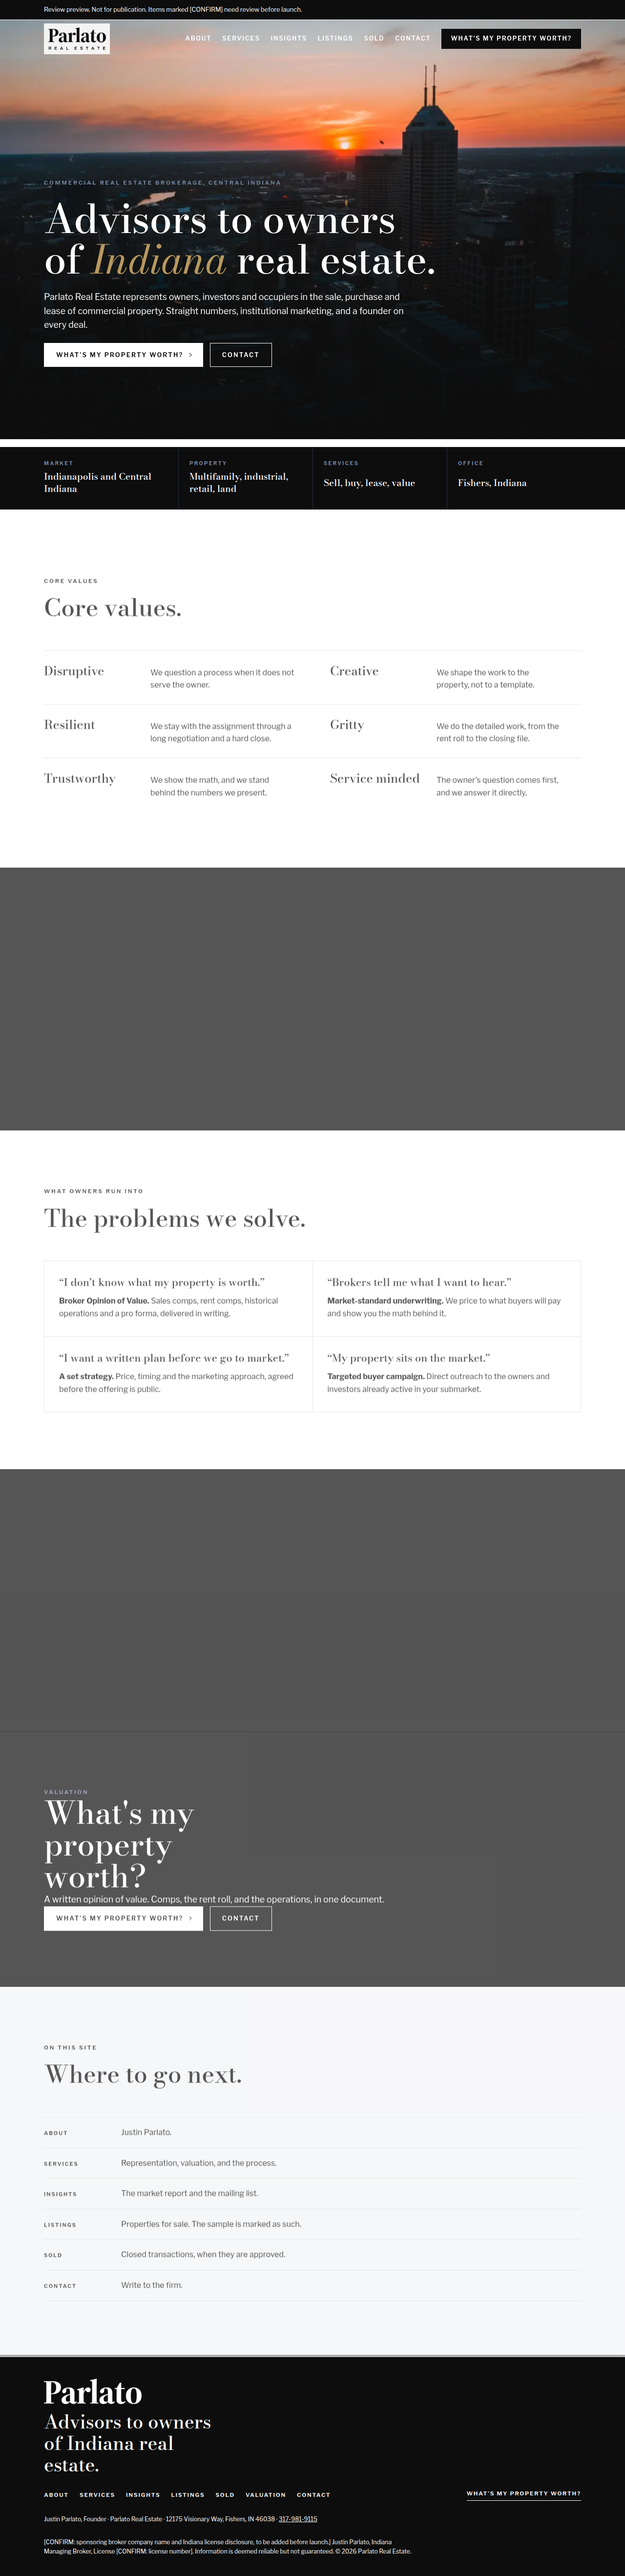
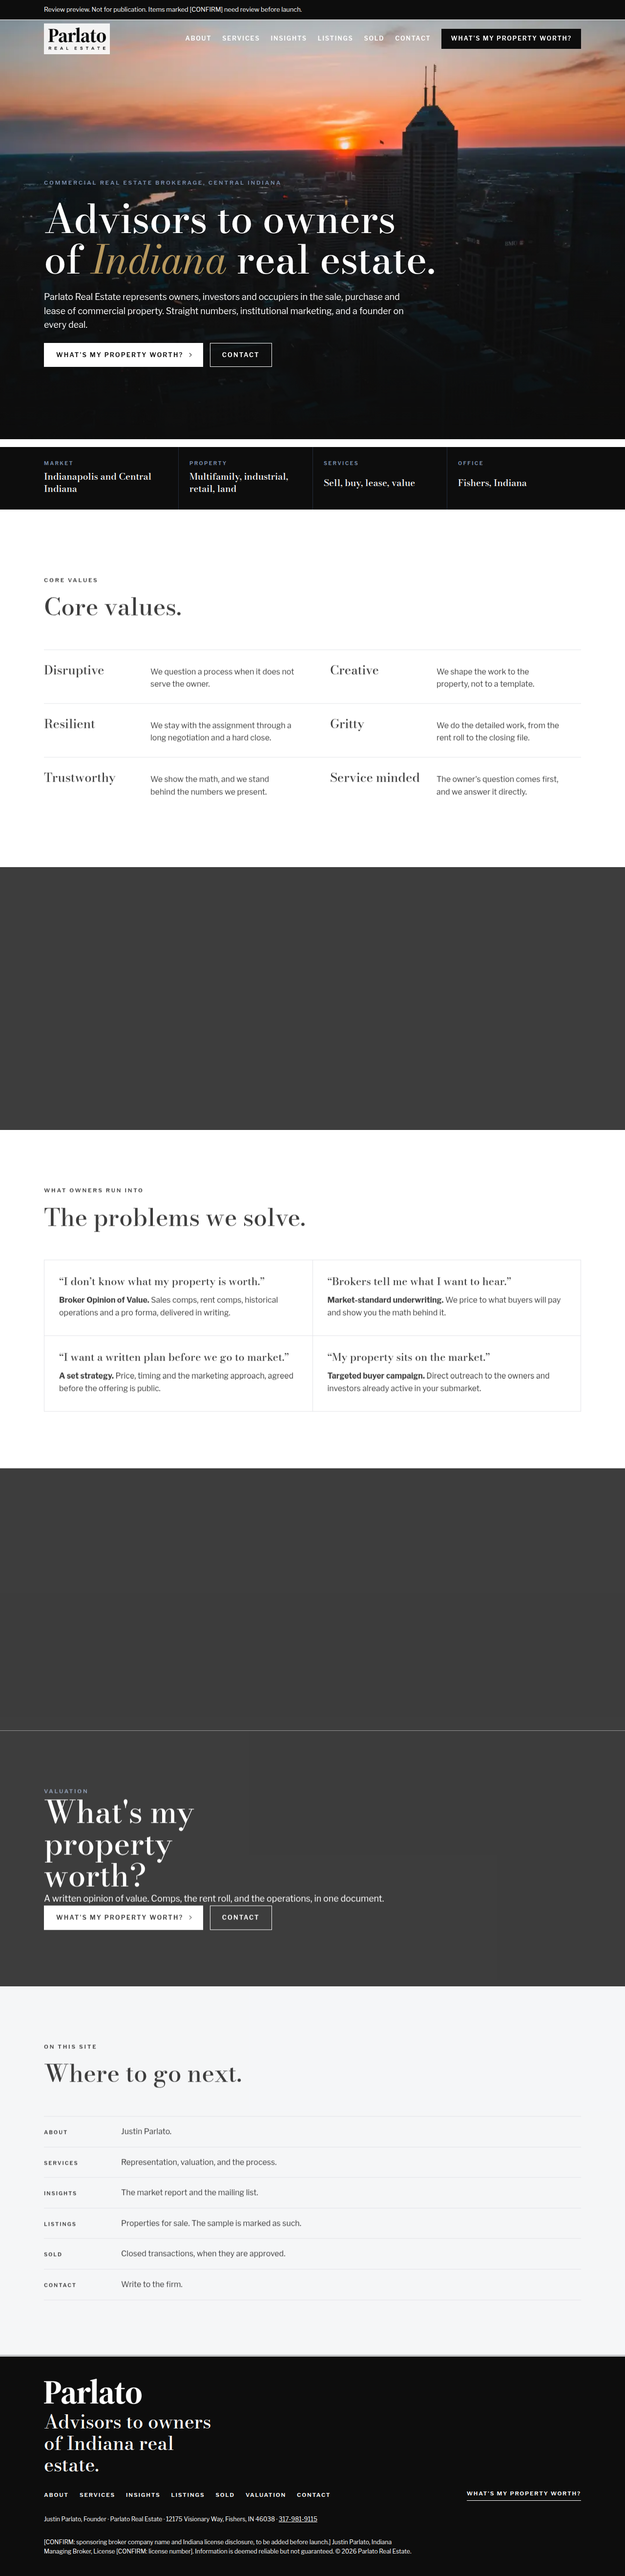
Close the design-audit gaps on heroes, listings, and sold.
About, Contact, and Valuation open on a short photograph. Listing cards are photo first. An empty Sold page no longer draws a map or a building photo.

diff --git a/css/styles.css b/css/styles.css
@@ -70,7 +70,7 @@
 }
 
 *, *::before, *::after { box-sizing: border-box; }
-html { scroll-behavior: smooth; }
+html { scroll-behavior: smooth; scroll-padding-top: 120px; }
 @media (prefers-reduced-motion: reduce) {
   html { scroll-behavior: auto; }
   *, *::before, *::after {
@@ -239,7 +239,7 @@ p { margin: 0; }
   position: sticky;
   top: env(safe-area-inset-top, 0px);
   z-index: 50;
-  background: rgba(255, 255, 255, 0.96);
+  background: #fff;
   border-bottom: 1px solid var(--rule);
   transition: background 0.25s ease, border-color 0.25s ease, color 0.25s ease;
 }
@@ -250,7 +250,7 @@ body.has-hero .site-head {
 body.has-hero .site-head .nav a:not(.btn) { color: var(--white); }
 body.has-hero .nav-toggle { color: var(--white); border-color: var(--white); }
 body.has-hero .site-head.is-solid {
-  background: rgba(255, 255, 255, 0.96);
+  background: #fff;
   border-bottom-color: var(--rule);
 }
 body.has-hero .site-head.is-solid .nav a:not(.btn) { color: var(--black); }
@@ -1105,7 +1105,7 @@ input:focus, select:focus, textarea:focus {
 }
 @media (max-width: 960px) {
   .hero-photo { min-height: calc(100svh - 150px); }
-  .hero-scrim { padding-bottom: calc(28px + 8px); }
+  .hero-scrim { padding-bottom: calc(88px + env(safe-area-inset-bottom, 0px)); }
 }
 
 .strip-band { background: var(--black); color: var(--white); }
@@ -1245,8 +1245,15 @@ body.has-hero .page-hero.compact { padding-top: calc(78px + 28px); padding-botto
 }
 .maplibregl-popup-content h3 { margin: 8px 10px 2px; }
 .maplibregl-popup-content p { margin: 0 10px 6px; }
-.deal .shot { overflow: hidden; background: var(--stone); }
-.deal img { height: 112px; width: 100%; object-fit: cover; display: block; transition: transform 0.45s ease; }
+.deal .shot { overflow: hidden; background: var(--stone); aspect-ratio: auto; }
+.deal .shot img, .deal img {
+  width: 100%;
+  height: auto;
+  aspect-ratio: 16 / 10;
+  object-fit: cover;
+  display: block;
+  transition: transform 0.45s ease;
+}
 .deal { cursor: pointer; transition: background 0.2s ease; }
 .deal:hover, .deal.is-hot, .deal.is-active { background: var(--stone); }
 .deal.is-active { box-shadow: inset 3px 0 0 var(--black); }
@@ -1261,6 +1268,8 @@ body.has-hero .hero-photo { margin-top: -78px; min-height: calc(100svh - 42px); 
 body.has-hero .hero-photo.short { min-height: 72vh; }
 body.has-hero .page-hero { margin-top: -78px; padding-top: calc(78px + clamp(48px, 8vw, 92px)); }
 .hero-photo.short { min-height: 72vh; }
+.hero-photo.banner,
+body.has-hero .hero-photo.banner { min-height: 52vh; }
 .worth-band h2 { font-size: clamp(2.4rem, 5vw, 4.2rem); max-width: 12ch; line-height: 1.02; text-align: left; }
 .next-steps { margin: 8px 0 0; padding-left: 1.2em; display: grid; gap: 10px; }
 .next-steps li { max-width: 46ch; }
@@ -1288,24 +1297,36 @@ html.js .reveal.in { opacity: 1; transform: none; transition: opacity 0.6s ease,
   border: 0;
 }
 .market-side { min-width: 0; display: grid; gap: 18px; align-content: start; }
-.filters { display: flex; flex-wrap: wrap; gap: 18px 28px; }
+.filters {
+  display: flex;
+  flex-wrap: wrap;
+  gap: 12px 32px;
+  align-items: end;
+  padding: 0 0 14px;
+  margin: 0 0 8px;
+  border-bottom: 1px solid var(--rule);
+  background: var(--white);
+  scroll-margin-top: 120px;
+}
+.market-note { margin: 0 0 18px; max-width: 68ch; }
 .filters label { color: var(--black); min-width: 160px; }
 .filters select {
   color: var(--black);
   background: transparent;
   border-bottom-color: var(--black);
 }
-.deal-list { display: grid; }
+.deal-list { display: grid; gap: 18px; }
 .deal {
   display: grid;
-  grid-template-columns: 148px 1fr;
-  gap: 16px;
-  padding: 18px 0;
-  border-top: 1px solid var(--rule);
+  grid-template-columns: 1fr;
+  gap: 12px;
+  padding: 0 0 16px;
+  border: 1px solid var(--rule);
+  background: var(--white);
   min-width: 0;
 }
-.deal img { width: 100%; height: 112px; object-fit: cover; display: block; background: var(--stone); }
-.deal .body { display: grid; gap: 6px; align-content: start; min-width: 0; }
+.deal img { width: 100%; height: auto; aspect-ratio: 16 / 10; object-fit: cover; display: block; background: var(--stone); }
+.deal .body { display: grid; gap: 6px; align-content: start; min-width: 0; padding: 4px 16px 8px; }
 .deal h3 { font-size: 1.35rem; }
 .deal .meta { font-size: 0.92rem; }
 .deal .stats {
@@ -1352,7 +1373,6 @@ html.js .reveal.in { opacity: 1; transform: none; transition: opacity 0.6s ease,
 }
 @media (max-width: 560px) {
   .deal { grid-template-columns: 1fr; }
-  .deal img { height: 180px; }
 }
 
 .hp {
@@ -1371,7 +1391,7 @@ html.js .reveal.in { opacity: 1; transform: none; transition: opacity 0.6s ease,
 .team-head .lede { text-align: left; }
 .member {
   display: grid;
-  grid-template-columns: minmax(220px, 380px) 1fr;
+  grid-template-columns: minmax(260px, 440px) 1fr;
   gap: clamp(28px, 5vw, 72px);
   align-items: start;
 }

diff --git a/about.html b/about.html
@@ -38,14 +38,20 @@
   </header>
 <main id="main">
 
-    <section class="band" aria-labelledby="about-h">
-      <div class="wrap">
-        <div class="team-head">
+    <section class="hero-photo short" aria-labelledby="about-h">
+      <!-- [PLACEHOLDER PHOTO: replace with Parlato photography] -->
+      <img class="hero-img" src="images/banner-indy-downtown-1280.webp" srcset="images/banner-indy-downtown-800.webp 800w, images/banner-indy-downtown-1280.webp 1280w, images/banner-indy-downtown-1920.webp 1920w" sizes="100vw" alt="Indianapolis canal with the downtown towers beyond, a placeholder photograph" width="1920" height="1082" fetchpriority="high" decoding="async">
+      <div class="hero-scrim">
+        <div class="wrap hero-copy">
           <p class="eyebrow">About</p>
-          <h1 id="about-h">About</h1>
+          <h1 id="about-h">Justin Parlato</h1>
           <p class="lede">Founder, Parlato Real Estate.</p>
         </div>
-        <!-- Team-page structure: centered heading, then one person block with the portrait beside the name, role, and credentials. Narrative sections below are placeholders. -->
+      </div>
+    </section>
+    <section class="band">
+      <div class="wrap">
+        <!-- One person block: portrait beside the name, role, and credentials. Narrative blocks stay placeholders. -->
         <article class="member">
           <figure class="portrait">
             <img src="images/justin-parlato.jpg" alt="Justin Parlato" width="720" height="900">
@@ -95,7 +101,7 @@
     </section>
     <figure class="photo-band">
       <!-- [PLACEHOLDER PHOTO: replace with Parlato photography] -->
-      <img class="slot-photo" src="images/tile-multifamily-1280.webp" srcset="images/tile-multifamily-800.webp 800w, images/tile-multifamily-1280.webp 1280w, images/tile-multifamily-1920.webp 1920w" sizes="100vw" alt="Multifamily building exterior, a placeholder photograph" width="1280" height="1920" loading="lazy" decoding="async">
+      <img class="slot-photo" src="images/tile-land-1280.webp" srcset="images/tile-land-800.webp 800w, images/tile-land-1280.webp 1280w" sizes="100vw" alt="Open farmland, a placeholder photograph" width="1280" height="675" loading="lazy" decoding="async">
     </figure>
 
 </main>

diff --git a/services.html b/services.html
@@ -92,7 +92,7 @@
         <div class="svc">
           <article>
             <!-- [PLACEHOLDER PHOTO: replace with Parlato photography] -->
-            <img class="slot-photo" src="images/tile-multifamily-800.webp" srcset="images/tile-multifamily-800.webp 800w, images/tile-multifamily-1280.webp 1280w" sizes="(max-width: 700px) 100vw, 33vw" alt="Balconies on a multifamily building, a placeholder photograph" width="1280" height="1920" loading="lazy" decoding="async">
+            <img class="slot-photo" src="images/tile-land-800.webp" srcset="images/tile-land-800.webp 800w, images/tile-land-1280.webp 1280w" sizes="(max-width: 700px) 100vw, 33vw" alt="Open farmland, a placeholder photograph" width="1280" height="675" loading="lazy" decoding="async">
             <span class="tagline">Owners</span>
             <h3>Seller representation</h3>
             <p>Pricing strategy, offering memorandum, buyer outreach, negotiation and due diligence management through closing.</p>
@@ -151,7 +151,7 @@
     
     <figure class="photo-band">
       <!-- [PLACEHOLDER PHOTO: replace with Parlato photography] -->
-      <img class="slot-photo" src="images/tile-desk-1280.webp" srcset="images/tile-desk-800.webp 800w, images/tile-desk-1280.webp 1280w, images/tile-desk-1920.webp 1920w" sizes="100vw" alt="Hands reviewing charts at a table, a placeholder photograph with no faces" width="1920" height="1272" loading="lazy" decoding="async">
+      <img class="slot-photo" src="images/banner-indy-downtown-1280.webp" srcset="images/banner-indy-downtown-800.webp 800w, images/banner-indy-downtown-1280.webp 1280w, images/banner-indy-downtown-1920.webp 1920w" sizes="100vw" alt="Indianapolis canal with the downtown towers beyond, a placeholder photograph" width="1920" height="1082" loading="lazy" decoding="async">
     </figure>
     <section class="band stone" aria-labelledby="issues-h">
       <div class="wrap">

diff --git a/contact.html b/contact.html
@@ -38,11 +38,15 @@
   </header>
 <main id="main">
 
-    <section class="page-hero">
-      <div class="wrap">
-        <p class="eyebrow">Contact</p>
-        <h1>Let’s talk about your property.</h1>
-        <p class="lede">Tell us what you own or what you are looking for. You will hear back from Justin directly.</p>
+    <section class="hero-photo banner" aria-labelledby="contact-hero">
+      <!-- [PLACEHOLDER PHOTO: replace with Parlato photography] -->
+      <img class="hero-img" src="images/banner-indy-monument-1280.webp" srcset="images/banner-indy-monument-800.webp 800w, images/banner-indy-monument-1280.webp 1280w, images/banner-indy-monument-1920.webp 1920w" sizes="100vw" alt="Monument Circle in downtown Indianapolis at night, a placeholder photograph" width="1920" height="1281" fetchpriority="high" decoding="async">
+      <div class="hero-scrim">
+        <div class="wrap hero-copy">
+          <p class="eyebrow">Contact</p>
+          <h1 id="contact-hero">Let's talk about your property.</h1>
+          <p class="lede">Tell us what you own or what you are looking for. You will hear back from Justin directly.</p>
+        </div>
       </div>
     </section>
     <section class="band ink" id="valuation" aria-labelledby="contact-h">

diff --git a/valuation.html b/valuation.html
@@ -36,11 +36,15 @@
     </div>
   </header>
   <main id="main">
-    <section class="page-hero">
-      <div class="wrap">
-        <p class="eyebrow">Valuation</p>
-        <h1>What's my property worth?</h1>
-        <p class="lede">[CONFIRM: short introduction for owners who want a written opinion of value.]</p>
+    <section class="hero-photo banner" aria-labelledby="val-hero">
+      <!-- [PLACEHOLDER PHOTO: replace with Parlato photography. This is a city view, not a subject property.] -->
+      <img class="hero-img" src="images/hero-indy-skyline-1280.webp" srcset="images/hero-indy-skyline-800.webp 800w, images/hero-indy-skyline-1280.webp 1280w, images/hero-indy-skyline-1920.webp 1920w" sizes="100vw" alt="Downtown Indianapolis skyline at sunset, a placeholder photograph, not a subject property" width="1920" height="1079" fetchpriority="high" decoding="async">
+      <div class="hero-scrim">
+        <div class="wrap hero-copy">
+          <p class="eyebrow">Valuation</p>
+          <h1 id="val-hero">What's my property worth?</h1>
+          <p class="lede">[CONFIRM: short introduction for owners who want a written opinion of value.]</p>
+        </div>
       </div>
     </section>
     <section class="band ink" aria-labelledby="val-h">

diff --git a/sold.html b/sold.html
@@ -45,10 +45,6 @@
         <p class="lede">Closed transactions will be listed here after Joseph approves each one.</p>
       </div>
     </section>
-    <figure class="photo-band">
-      <!-- [PLACEHOLDER PHOTO: replace with Parlato photography] -->
-      <img class="slot-photo" src="images/tile-warehouse-1280.webp" srcset="images/tile-warehouse-800.webp 800w, images/tile-warehouse-1280.webp 1280w, images/tile-warehouse-1920.webp 1920w" sizes="100vw" alt="Industrial building, a placeholder photograph, not a closed Parlato transaction" width="1920" height="1281" loading="lazy" decoding="async">
-    </figure>
     <section class="band" aria-labelledby="sold-h">
       <div class="wrap">
         <div class="head">

diff --git a/js/main.js b/js/main.js
@@ -426,6 +426,11 @@
     layout.appendChild(side);
 
     if (!items.length) {
+      root.innerHTML = "";
+      if (mode === "sold") {
+        root.hidden = true;
+        return;
+      }
       if (note) root.appendChild(note);
       root.appendChild(layout);
       var empty = document.createElement("p");

diff --git a/DESIGN-AUDIT.md b/DESIGN-AUDIT.md
@@ -1,0 +1,83 @@
+# Design audit
+
+Reviewed November 9, 2026, after the multi-page preview, the Leaflet listings map, the valuation page, and the licensed stand-in photographs. Each site below was opened in a browser at desktop width. Scores compare Parlato with the pattern those sites share, from 1 (missing) to 5 (the useful pattern, without copying them).
+
+No text, logos, or image files were copied. Track-record counts, testimonials, and client logos appear on many of these sites. Parlato does not use them. Rules for that are in `CLAUDE.md`.
+
+## What was opened
+
+| Site | Address opened | What the first screen does |
+| --- | --- | --- |
+| Verti CRE | verticre.com | Logo and links sit on a full-bleed building photograph. Headline is centered. One contact button. |
+| INV Development | invdevelopmentllc.com | Thin type nav on a full-bleed aerial. Headline and two buttons sit low and left. A fact strip closes the hero. |
+| Forge | forgerea.com | Dark nav, full-bleed aerial, oversized headline, one gold line, one button. Testimonials and volume counts sit on the photo. Forge Commercial in Dallas (forgecommercial.com) was also opened. It uses the same full-bleed pattern. The Midwest firm is the one scored here. |
+| Avison Young | avisonyoung.com | Two nav rows on white, then a black type band over a dark field. A cookie panel covered the lower half. |
+| Allies Commercial Realty | alliescommercialrealty.com | Nav and three buttons on a full-bleed night aerial. Headline and three more buttons sit low. |
+| Xmark Midwest | xmarkmidwest.com | White header, then five full-height photo doors: Listings, Sold, About, Team, Contact. Team and Sold were also opened from search. Team is a heading, then a portrait beside the name and role. Sold is a year list, not a map of unsold buildings. |
+| Semler | semlercres.com | Navy nav, aerial with the headline low, then a client-logo strip and service blocks. About is a named biography with transaction figures. |
+| Ellsbury | ellsburygroup.com | White nav over a skyline. Centered name, one button. Listings are photo cards: picture, name, city, facts, status. |
+| Merrill | merrillpropertygroup.com | White header, skyline, then four path cards (sell, lease, buy, tenants) and a values row. |
+| Kirkland | thekirklandco.com | Nav on an aerial of apartments. Seller and buyer buttons, then three overlapping cards. Properties are photo cards. |
+| Bradley | bradleyco.com | Dark header, split panel (type on the left, photograph on the right), then three service tiles. |
+| SVN Northern Commercial | svnnc.com | White nav, orange contact button, type on the left of a skyline, one button. |
+| NAI Global | naiglobal.com | White nav on a color street photograph, type in a dark panel at the left. A privacy panel covered the lower left. |
+| Hudson Investing | hudsoninvesting.com | The live page stopped on a bot check, so the photograph could not be seen. The public home, about, portfolio, and FAQ text were read. Home leads with a headline, acquisition counts, and a portfolio of named properties. Those counts are not a pattern Parlato can follow. |
+| Focused Capital | focusedcapital.com | Centered logo, then a wide building photograph, then a two-column story with more property photos. Contact is a short form. |
+| Gray Capital | graycapitalllc.com | Logo centered on a darkened aerial, outlined headline, two buttons. Properties are a photo grid with unit counts. |
+| Huber Equity | huberequitygroup.com | Thin nav, then a split: large name on the left, a building photograph on the right, one button. Portfolio is a list of named assets. |
+
+Shared pattern worth keeping: a photograph carries the first screen, the header sits on that photograph, the headline is large, one primary action is obvious, listing cards are photo first, and the footer is quiet. Shared pattern to leave alone: volume statistics, testimonials, and client logos.
+
+## Scores by page type
+
+Scores are after the changes in this pass.
+
+| Page | Layout | Hero | Nav | Type | Space | Photo | CTA / form | Map / listings | Footer | Motion | Mobile | Notes |
+| --- | --- | --- | --- | --- | --- | --- | --- | --- | --- | --- | --- | --- |
+| Home | 4 | 4 | 4 | 4 | 4 | 4 | 4 | n/a | 4 | 4 | 4 | Full-bleed photo, header on the photo, fact strip, values, valuation close |
+| About | 4 | 4 | 4 | 4 | 4 | 4 | 4 | n/a | 4 | 4 | 4 | Short photo, then portrait beside the name. Bio blocks stay placeholders |
+| Services | 4 | 4 | 4 | 4 | 4 | 4 | 4 | n/a | 4 | 4 | 4 | Photo hero, four paths, service tiles. Same-page photo repeats removed |
+| Insights | 4 | 4 | 4 | 4 | 4 | 4 | 3 | n/a | 4 | 4 | 4 | Report, list, and press stay empty on purpose |
+| Listings | 4 | 3 | 4 | 4 | 4 | 4 | 4 | 4 | 4 | 4 | 4 | Short type hero so the map stays high. Photo-first card beside the map |
+| Sold | 4 | 3 | 4 | 4 | 4 | 4 | 3 | 4 | 4 | 3 | 4 | Empty on purpose. No map and no building photo until a real record exists |
+| Contact | 4 | 4 | 4 | 4 | 4 | 4 | 4 | n/a | 4 | 3 | 4 | Short photo, then the general form. Preview notice stays |
+| Valuation | 4 | 4 | 4 | 4 | 4 | 4 | 4 | n/a | 4 | 3 | 4 | Short city photo, then the owner form. Intro and next steps are [CONFIRM] |
+
+A 3 on the listings and sold heroes is the short type band. A tall photograph there would push the map or the empty table down. A 3 on Insights, Sold, and Contact motion is the absence of a count-up or testimonial slider, which this brand does not add.
+
+## Gap list, by impact
+
+### High
+
+1. A full-bleed building photograph sat above the empty Sold table and read as a closed deal. Removed.
+2. With no closed records, Sold still drew a blank map. An empty map reads as a broken listings page. The map now waits until `data/sold.json` has a record. The empty table stays.
+3. On a phone, the home hero buttons sat under the sticky bar. The scrim clears that bar.
+4. About, Contact, and Valuation opened as type on a flat field. The references open those page types on a photograph. Each of those three now has a short, left-aligned photo hero using a placeholder already in the repo. The valuation photograph is a city view, and the alt text says it is not a subject property.
+
+### Medium
+
+1. Listing cards were short strips. They are now photo first: picture, status, name, city and type, size, price, and the deal-room action. The sample price still reads "Price: sample".
+2. The filter bar needed one rule so the two selects read as one control. Done. The confirm note stays under that bar.
+3. Hero and inner-banner type needed to share the logo's left edge and sit low. Kept.
+4. Scroll reveals could hide copy if JavaScript was slow. Copy stays visible until JavaScript adds the animation class, and only below the fold.
+5. The Services page showed the same photograph twice in one view (the hero and the first tile, and the charts tile and the lower band). Those repeats now use other placeholders already in the library.
+6. The About portrait column was narrow next to the credential stack. The portrait column is wider.
+7. The header over a hero was translucent enough that scrolled labels showed through it. The solid state is now opaque white. Over the photograph, the bar stays clear and the logo keeps its white plate.
+
+### Low, not changed
+
+- No invented volume, testimonials, press, or client lists. The references use those. Parlato does not.
+- Relative canonical and `noindex` stay until Joseph sets a domain and approves publication.
+- Primary nav stays About, Services, Insights, Listings, Sold, Contact. Valuation is a button and a footer link.
+- The listings title stays a short black band so the map remains the first working thing on the page.
+- The photo library is still licensed stand-in photography. `PHOTO-AUDIT.md` is the shot list for real Parlato pictures. Adding more stock would not close that gap.
+
+## What changed in this audit pass
+
+- Sold no longer shows a property photograph, and it no longer draws a map when there are no records.
+- About, Contact, and Valuation open on a short placeholder photograph, with the title at the left.
+- Listing cards are photo first and sit beside the sticky map.
+- The filter bar has one bottom rule, and the header turns opaque white once the page scrolls.
+- Services no longer repeats one photograph inside a single page.
+- The About portrait column is wider.
+- Mobile hero text clears the sticky Contact / valuation bar.

diff --git a/CHANGES.md b/CHANGES.md
@@ -13,6 +13,7 @@ The site is now separate pages. Navigation order is About, Services, Insights, L
 - About is a founder layout (centered heading, portrait beside the name, role line, credential rows). Longer bio sections are placeholder blocks, not new copy.
 - Listings uses one data file, a grayscale Leaflet map (OpenStreetMap raster tiles, no WebGL), and filterable cards. The map is the large sticky pane. The only record is the illustrative Riverbend Commons sample, and its price is shown as "Price: sample" so the figure is not read as a live asking price. Sold is an empty map plus an empty table.
 - The home hero still includes the flagged line "A founder on every deal." It is kept on purpose and listed under Claims flagged for verification.
+- Design re-audit is in `DESIGN-AUDIT.md`. About, Contact, and Valuation open on a short photograph. Listing cards are photo first. An empty Sold page does not draw a map or a building photograph. The Services page no longer repeats the same photograph in one view.
 - Photo spots use licensed stand-in photographs, credited in `images/CREDITS.md`, each marked [PLACEHOLDER PHOTO: replace with Parlato photography]. Joseph's three named aerial files were not in the workspace, so Indianapolis skyline, canal, Monument Circle, and a cropped downtown-grid aerial fill those roles. The headshot stays grayscale.
 - The contact form posts to `functions/api/contact.js`. With no env vars it returns "not configured," and the page shows "Preview only, not connected."
 
